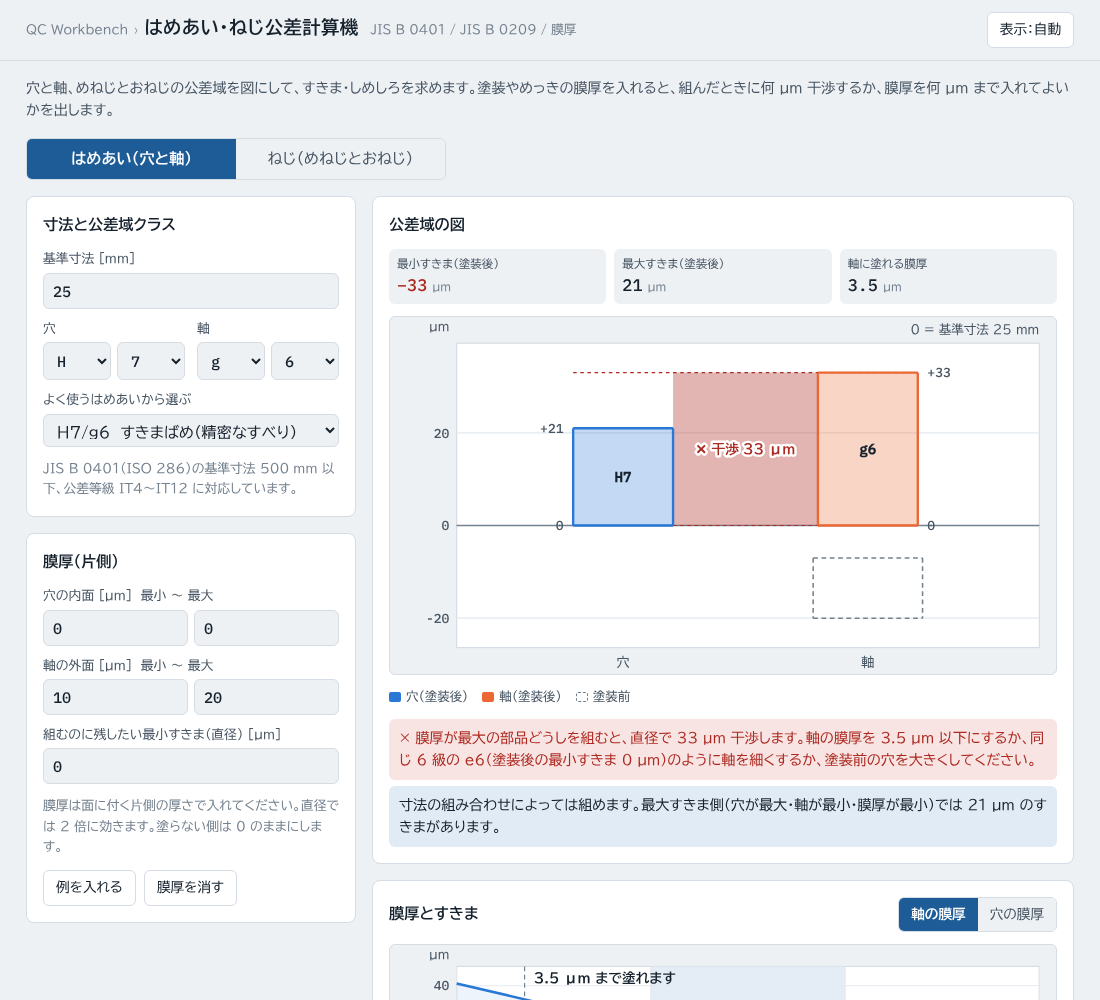
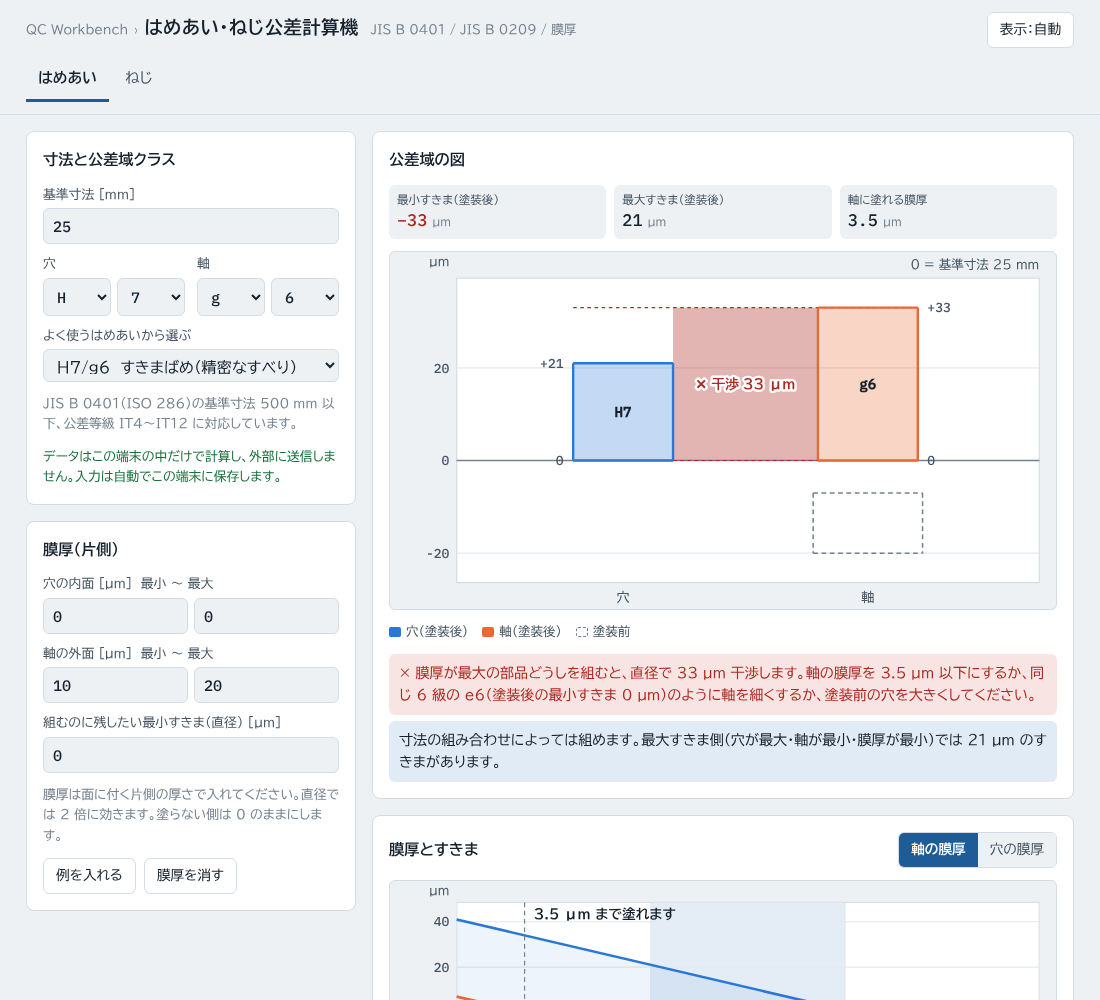
モードの切り替えをヘッダーのタブにし、フッターと端末内処理の表示をほかのツールにそろえる

diff --git a/index.html b/index.html
@@ -78,7 +78,12 @@ header.top { position: sticky; top: 0; z-index: 5; background: var(--bg); border
 .brand .home:hover { color: var(--accent); text-decoration: underline; }
 .brand .crumb { font-size: .78rem; color: var(--muted); margin-right: -6px; }
 .brand .theme { margin-left: auto; }
-.lead { margin: 0; color: var(--ink2); font-size: .88rem; }
+nav.tabs { display: flex; gap: 4px; margin-top: 10px; overflow-x: auto; scrollbar-width: none; }
+nav.tabs::-webkit-scrollbar { display: none; }
+nav.tabs button { flex: 0 0 auto; border: 0; background: none; color: var(--ink2); font: inherit; font-size: .92rem; padding: 8px 12px 10px; cursor: pointer; border-bottom: 3px solid transparent; }
+nav.tabs button[aria-selected="true"] { color: var(--ink); border-bottom-color: var(--accent); font-weight: 700; }
+nav.tabs button:focus-visible { outline: 2px solid var(--accent); outline-offset: -2px; }
+.privacy { font-size: .8rem; color: var(--ok); margin: 0; }
 .wrap { max-width: 1080px; margin: 0 auto; padding: 16px 16px 40px; display: flex; flex-direction: column; gap: 16px; }
 .panel { display: grid; grid-template-columns: minmax(0, 330px) minmax(0, 1fr); gap: 16px; align-items: start; }
 @media (max-width: 760px) { .panel { grid-template-columns: minmax(0, 1fr); } }
@@ -102,8 +107,6 @@ input.bad, select.bad { border-color: var(--ng); background: var(--ng-weak); }
 button:focus-visible, input:focus-visible, select:focus-visible { outline: 2px solid var(--accent); outline-offset: 1px; }
 .seg { display: inline-flex; border: 1px solid var(--line); border-radius: 6px; overflow: hidden; flex-wrap: wrap; }
 .seg button { border: 0; background: var(--bg); color: var(--ink2); font: inherit; font-size: .85rem; padding: 6px 12px; cursor: pointer; }
-.seg.tabs { display: grid; grid-template-columns: 1fr 1fr; max-width: 420px; }
-.seg.tabs button { padding: 8px 12px; font-size: .95rem; }
 .seg button[aria-pressed="true"] { background: var(--accent); color: var(--accent-ink); font-weight: 700; }
 .msg { border-radius: 6px; padding: 8px 10px; font-size: .88rem; }
 .msg.err { background: var(--ng-weak); color: var(--ng); }
@@ -141,7 +144,7 @@ table.res tr.cur { background: var(--accent-weak); }
 .legend span::before { content: ""; display: inline-block; width: 12px; height: 10px; margin-right: 5px; vertical-align: -1px; background: var(--c); border-radius: 2px; }
 .legend span.line::before { height: 3px; vertical-align: 3px; }
 .legend span.dash::before { height: 10px; background: transparent; border: 1.5px dashed var(--c); box-sizing: border-box; }
-footer { font-size: .78rem; color: var(--muted); }
+footer { margin-top: 16px; font-size: .78rem; color: var(--muted); }
 footer a { color: inherit; }
 #toast { position: fixed; left: 50%; transform: translateX(-50%); bottom: calc(20px + env(safe-area-inset-bottom, 0px)); background: var(--ink); color: var(--surface); padding: 8px 14px; border-radius: 999px; font-size: .85rem; }
 .howto svg { max-width: 420px; }
@@ -155,13 +158,14 @@ footer a { color: inherit; }
       <span class="std">JIS B 0401 / JIS B 0209 / 膜厚</span>
       <button class="btn theme" id="themeBtn" type="button" aria-label="表示テーマを切り替え">表示：自動</button>
     </div>
+    <nav class="tabs" role="tablist">
+      <button role="tab" aria-selected="true" data-tab="fit" type="button">はめあい</button>
+      <button role="tab" aria-selected="false" data-tab="thr" type="button">ねじ</button>
+    </nav>
   </div>
 </header>
 
 <main class="wrap">
-  <p class="lead">穴と軸、めねじとおねじの公差域を図にして、すきま・しめしろを求めます。塗装やめっきの膜厚を入れると、組んだときに何 µm 干渉するか、膜厚を何 µm まで入れてよいかを出します。</p>
-  <div class="seg tabs" id="mode" role="group" aria-label="計算するもの"><button type="button" data-v="fit" aria-pressed="true">はめあい（穴と軸）</button><button type="button" data-v="thr" aria-pressed="false">ねじ（めねじとおねじ）</button></div>
-
   <!-- ===== はめあい ===== -->
   <section class="panel" id="fitPanel">
     <div class="col">
@@ -174,6 +178,7 @@ footer a { color: inherit; }
           <div class="field wide"><label for="fPreset">よく使うはめあいから選ぶ</label><select id="fPreset" class="ui"></select></div>
         </div>
         <p class="hint">JIS B 0401（ISO 286）の基準寸法 500 mm 以下、公差等級 IT4〜IT12 に対応しています。</p>
+        <p class="privacy">データはこの端末の中だけで計算し、外部に送信しません。入力は自動でこの端末に保存します。</p>
       </div>
       <div class="box">
         <h2>膜厚（片側）</h2>
@@ -233,6 +238,7 @@ footer a { color: inherit; }
           <div class="field"><label for="tEc">おねじ（ボルト）</label><select id="tEc"></select></div>
         </div>
         <p class="hint">JIS B 0209-1（ISO 965-1）の公差です。公差等級は、はめあい長さが「並（N）」のときの選び方を前提にしています。5g6g は有効径 5g・外径 6g の意味です。</p>
+        <p class="privacy">データはこの端末の中だけで計算し、外部に送信しません。入力は自動でこの端末に保存します。</p>
       </div>
       <div class="box">
         <h2>膜厚（フランク面の片側）</h2>
@@ -291,7 +297,9 @@ footer a { color: inherit; }
     <div class="figure" id="howtoFig"></div>
     <p class="hint">膜厚は面に均一に付くとみなしています。電気めっきは山の頂や端に厚く付き、吹付け塗装は谷にたまりやすいので、実際の厚さの分布が分かっているときは、厚いところの値を最大に入れてください。ピッチ誤差・フランク角の誤差による有効径の増え分（ゲージで測る実効有効径）は入れていません。</p>
   </div>
-  <footer>計算は端末の中だけで行い、入力した値はどこにも送信しません。一度開けばオフラインでも使えます。<a href="https://github.com/kotaooka/fit-calc">GitHub</a> ・ MIT License</footer>
+  <footer>
+    <a href="https://github.com/kotaooka/fit-calc">GitHub</a> ・ MIT License
+  </footer>
 </main>
 <div id="toast" hidden></div>
 

diff --git a/js/app.js b/js/app.js
@@ -73,8 +73,12 @@
     document.querySelectorAll(`#${id} button`).forEach(b => b.addEventListener('click', () => { set(b.dataset.v); save(); render(); }));
     return () => document.querySelectorAll(`#${id} button`).forEach(b => b.setAttribute('aria-pressed', String(b.dataset.v === get())));
   }
+  // モードのタブ（ヘッダーの nav.tabs。ほかのツールと同じ形）
+  const tabBtns = document.querySelectorAll('nav.tabs button');
+  tabBtns.forEach(b => b.addEventListener('click', () => { st.mode = b.dataset.tab; save(); render(); window.scrollTo(0, 0); }));
+  const tabUpd = () => tabBtns.forEach(b => b.setAttribute('aria-selected', String(b.dataset.tab === st.mode)));
   const segUpd = [
-    segs('mode', () => st.mode, v => { st.mode = v; }),
+    tabUpd,
     segs('fSweep', () => st.fit.sweep, v => { st.fit.sweep = v; }),
     segs('fList', () => st.fit.list, v => { st.fit.list = v; }),
     segs('tSweep', () => st.thr.sweep, v => { st.thr.sweep = v; }),

diff --git a/sw.js b/sw.js
@@ -1,6 +1,6 @@
 // はめあい・ねじ公差計算機の Service Worker
 // 公開ファイルを更新したら VERSION を上げる。古いキャッシュは activate 時に削除される
-const VERSION = 'v1.0.0';
+const VERSION = 'v1.0.1';
 const APP_CACHE = `fit-calc-${VERSION}`;
 const FONT_CACHE = 'fit-calc-fonts';
 

diff --git a/tools/screenshots.py b/tools/screenshots.py
@@ -66,7 +66,7 @@ with sync_playwright() as p:
     o.wait_for_load_state('networkidle'); o.evaluate("document.fonts.ready"); o.wait_for_timeout(300)
     o.screenshot(path=str(ROOT / 'og.png'))
     # ねじ
-    pg.click('#mode button[data-v="thr"]'); pg.wait_for_timeout(300)
+    pg.click('nav.tabs button[data-tab="thr"]'); pg.wait_for_timeout(300)
     scroll_to(pg, '#thrPanel')
     pg.screenshot(path=str(OUT / 'thread.png'), full_page=False)
     m = open_page(b, viewport={'width': 390, 'height': 844}, device_scale_factor=2, is_mobile=True, has_touch=True, color_scheme='dark')
